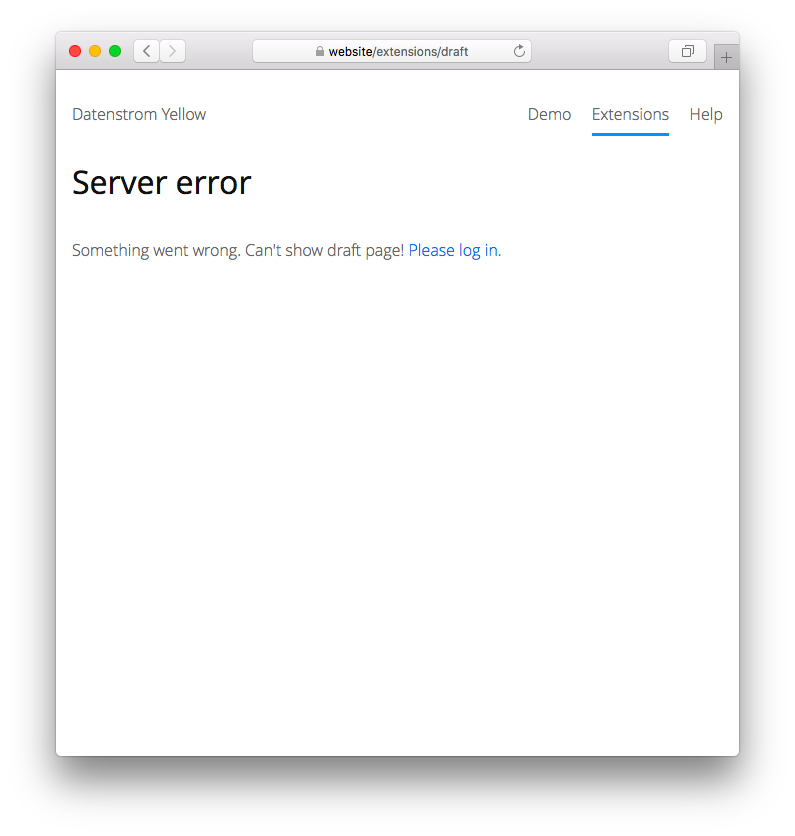
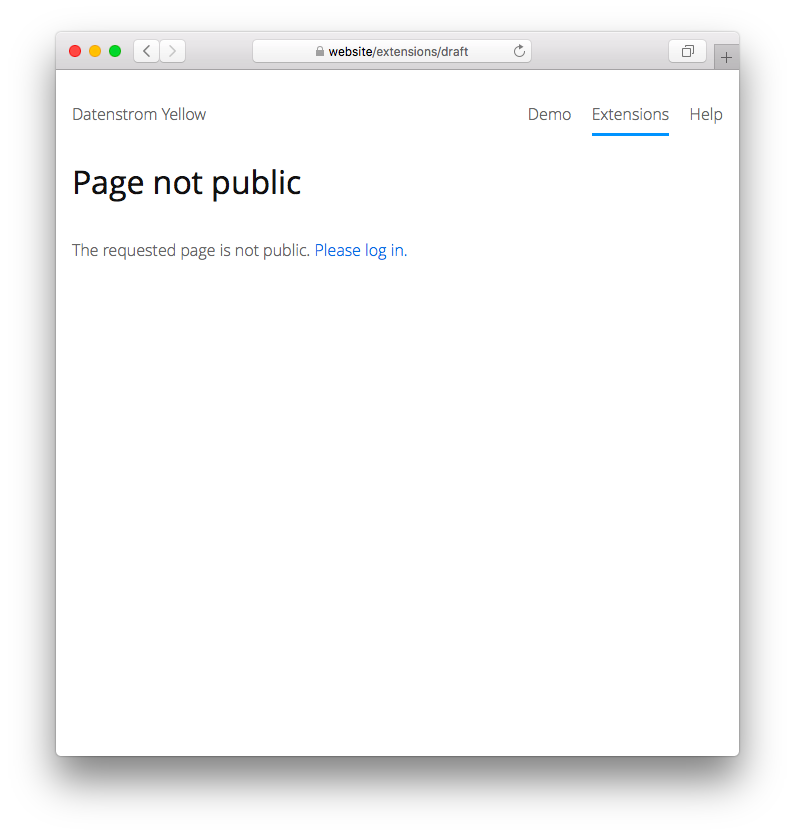
Updated draft extension

Changed region(s): [[0.0906, 0.1866, 0.3925, 0.2488], [0.0906, 0.2799, 0.634, 0.311]]

diff --git a/source/draft/draft.php b/source/draft/draft.php
@@ -2,7 +2,7 @@
 // Draft extension, https://github.com/datenstrom/yellow-extensions/tree/master/source/draft
 
 class YellowDraft {
-    const VERSION = "0.8.10";
+    const VERSION = "0.8.11";
     public $yellow;         // access to API
     
     // Handle initialisation
@@ -19,11 +19,12 @@ class YellowDraft {
     // Handle page layout
     public function onParsePageLayout($page, $name) {
         if ($this->yellow->page->get("status")=="draft" && $this->yellow->getRequestHandler()=="core") {
-            $pageError = "Can't show draft page!";
+            $pageError = "";
             if ($this->yellow->extension->isExisting("edit")) {
-                $pageError .= " <a href=\"".$this->yellow->page->get("pageEdit")."\">Please log in</a>.";
+                $pageError .= "<a href=\"".$this->yellow->page->get("pageEdit")."\">";
+                $pageError .= $this->yellow->language->getText("draftPageError")."</a>";
             }
-            $this->yellow->page->error(500, $pageError);
+            $this->yellow->page->error(420, $pageError);
         }
         if ($name=="draftpages") {
             $pages = $this->yellow->content->index(true, false)->filter("status", "draft");

diff --git a/source/draft/README-de.md b/source/draft/README-de.md
@@ -1,4 +1,4 @@
-Draft 0.8.10
+Draft 0.8.11
 ============
 Unterstützung für Entwurfsseiten.
 

diff --git a/source/draft/README.md b/source/draft/README.md
@@ -1,4 +1,4 @@
-Draft 0.8.10
+Draft 0.8.11
 ============
 Support for draft pages.
 
